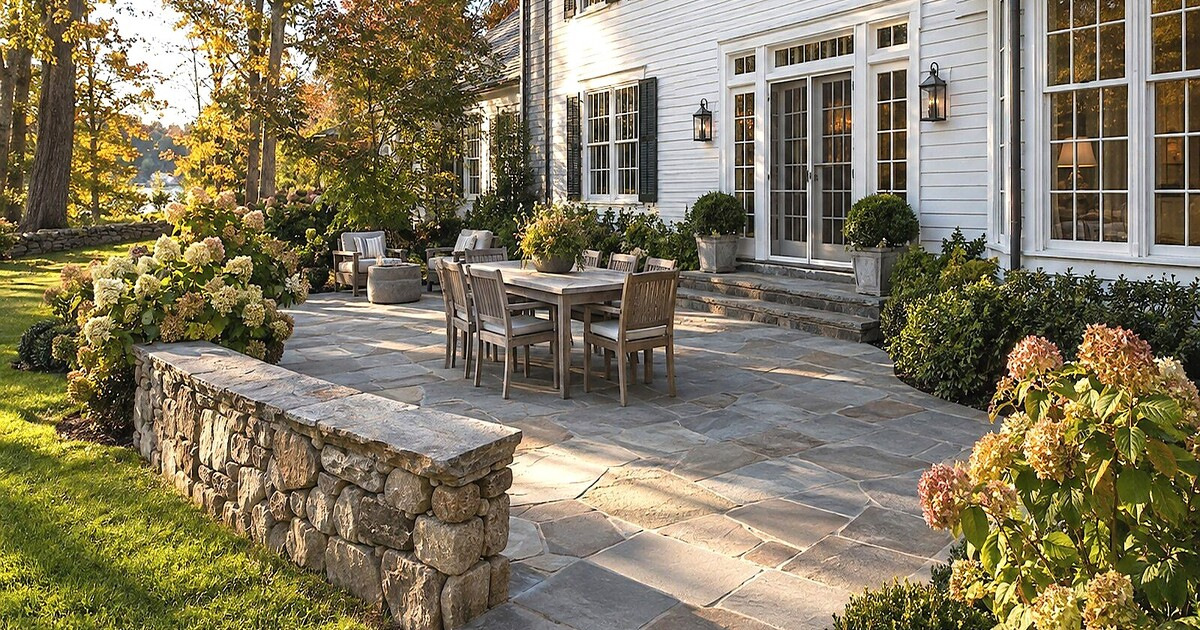
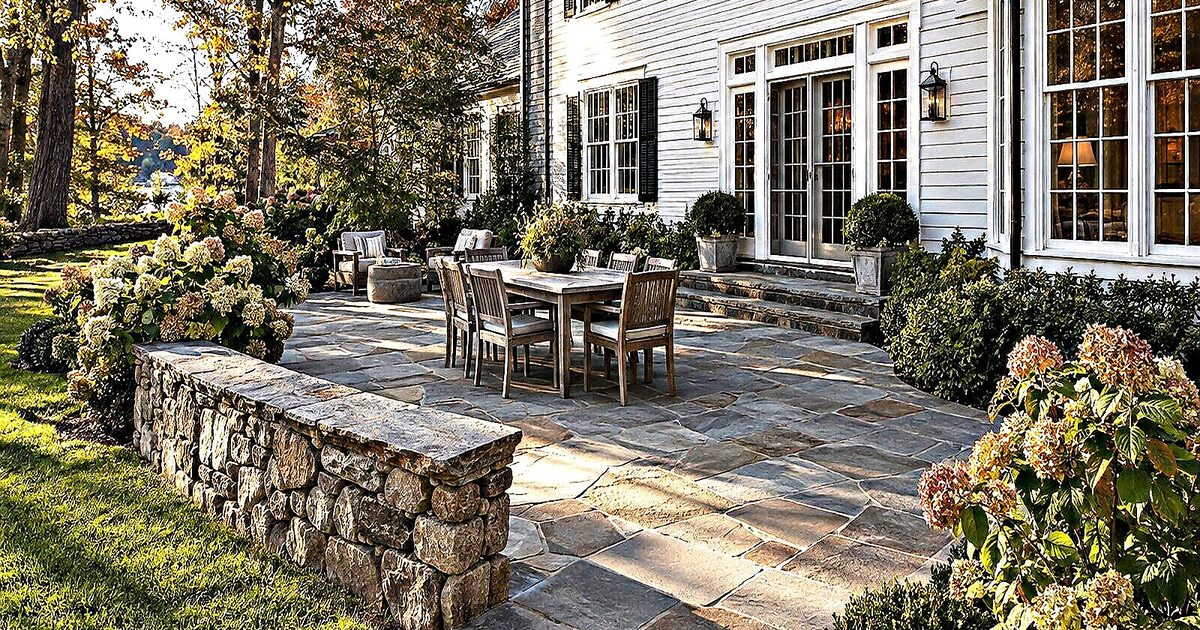
photo: derive the share card from the graded hero, drop 8 unused images
og-cover.jpg was a crop of the pristine negative, so every shared link and
iMessage preview showed the flat, ungraded frame while the site showed the
graded one. It is now built by tools/grade-photos.py off hero-finished.jpg
(crop 1600x840+0+30 -> 1200x630, Lanczos downscale), the same frame the hero
uses, from the native master rather than the 2400 retina tier: that tier
carries an upscale, unsharp and grain, and halving its grain reads as speckle
in foliage on a card never displayed above 1200 px.

Also removed eight images no markup, stylesheet, script or feed references:
hero[-900].jpg, project-firepit[-900].jpg, service-grading[-900].jpg,
service-tractor[-900].jpg (1.8 MB). The two service-* files were near-black
frames with black letterbox bands, unreferenced by any page.

Gates: rebuild byte-identical (84 pages, 84 sitemap urls, 0 html diffs),
3967 internal refs 0 broken, every referenced asset present, copy-dup 0.

diff --git a/tools/grade-photos.py b/tools/grade-photos.py
@@ -217,6 +217,37 @@ def _aspect(spec: str | None, stem: str) -> float:
     return w / h
 
 
+OG = IMG / "og-cover.jpg"
+OG_W, OG_H = 1200, 630          # Open Graph / iMessage / Slack card aspect
+OG_Y_SHARE = 30 / 900           # top of the original hero crop, as a fraction
+
+
+def og_cover() -> None:
+    """Social card off the same graded hero, so a shared link matches the site.
+
+    Taken from the native graded master, not the 2400 retina tier: that tier
+    carries an upscale, an unsharp pass and grain, and downscaling its grain by
+    two reads as speckle in foliage on a card that is never displayed above
+    1200 px. The retina file is only a fallback for a master narrower than the
+    card, since upscaling the card is the one direction that always shows.
+    """
+    src = IMG / "hero-finished.jpg"
+    if not src.exists() or _jpeg_dims(src)[0] < OG_W:
+        src = IMG / "hero-finished-2400.jpg"
+    w, h = _jpeg_dims(src)
+    ch = min(round(w * OG_H / OG_W), h)   # keep full width, trim height
+    y = round(h * OG_Y_SHARE)
+    y = max(0, min(y, h - ch))
+    subprocess.run([
+        "magick", str(src), "-crop", f"{w}x{ch}+0+{y}", "+repage",
+        "-filter", "Lanczos", "-resize", f"{OG_W}x{OG_H}!",
+        "-colorspace", "sRGB", "-strip", "-sampling-factor", "4:2:0",
+        "-quality", "82", "-interlace", "Plane", str(OG),
+    ], check=True)
+    print(f"og-cover {w}x{h} -> {OG_W}x{OG_H} from {src.name}  "
+          f"{OG.stat().st_size//1024}KB")
+
+
 def main(argv: list[str]) -> int:
     check = "--check" in argv
     BACKUP.mkdir(exist_ok=True)
@@ -288,6 +319,7 @@ def main(argv: list[str]) -> int:
         done.append((stem, before, after))
 
     if not check:
+        og_cover()
         tb = sum(b for _, b, _ in done)
         ta = sum(a for _, _, a in done)
         print(f"{len(done)} photographs graded, {len(list(IMG.glob('*.jpg')))} jpgs on disk")
